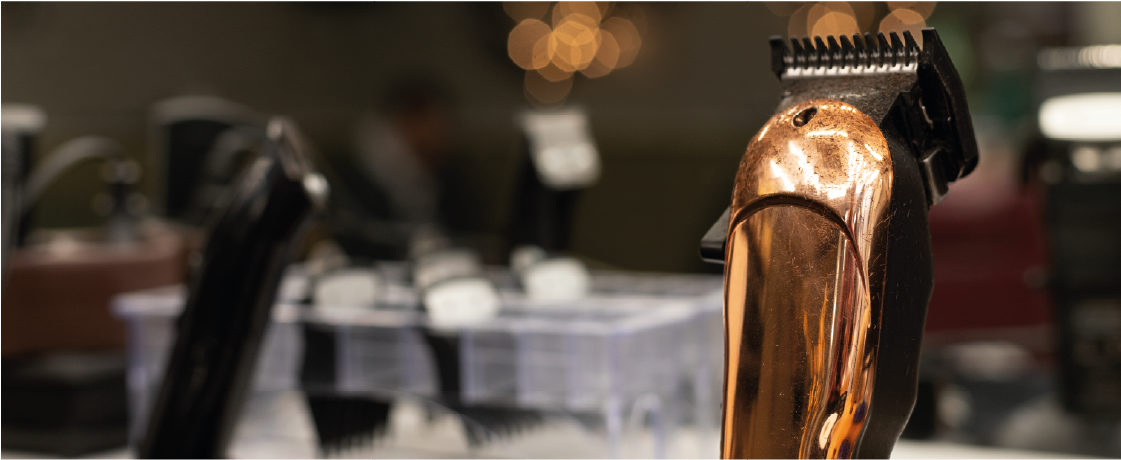
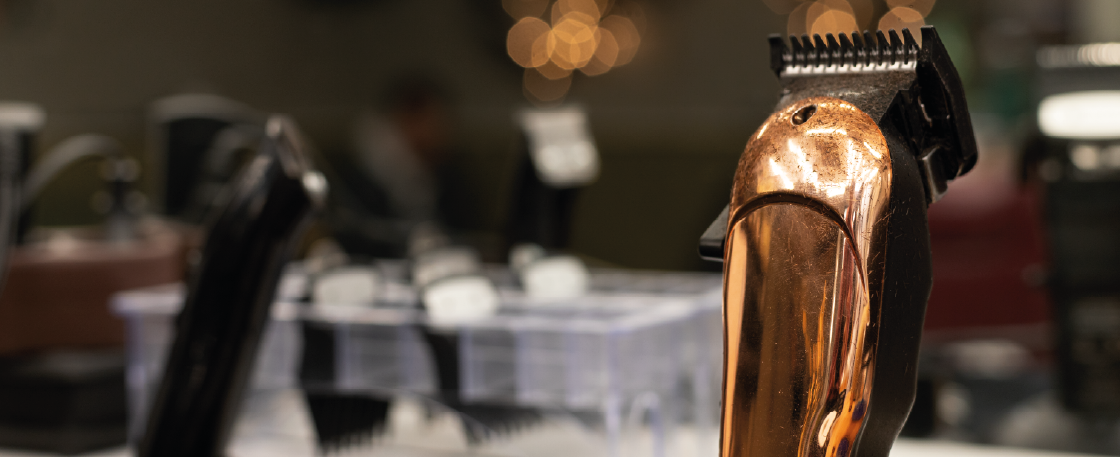
joebarber: Set description block

diff --git a/templates/assets/output.css b/templates/assets/output.css
@@ -219,6 +219,9 @@
   .my-6 {
     margin-block: calc(var(--spacing) * 6);
   }
+  .my-8 {
+    margin-block: calc(var(--spacing) * 8);
+  }
   .mt-0 {
     margin-top: 0;
   }
@@ -346,6 +349,9 @@
   .rounded-br-2xl {
     border-bottom-right-radius: var(--radius-2xl);
   }
+  .rounded-br-4xl {
+    border-bottom-right-radius: var(--radius-4xl);
+  }
   .rounded-br-full {
     border-bottom-right-radius: calc(infinity * 1px);
   }
@@ -421,6 +427,9 @@
   .p-4 {
     padding: calc(var(--spacing) * 4);
   }
+  .p-8 {
+    padding: calc(var(--spacing) * 8);
+  }
   .px-6 {
     padding-inline: calc(var(--spacing) * 6);
   }
@@ -433,8 +442,8 @@
   .py-4 {
     padding-block: calc(var(--spacing) * 4);
   }
-  .py-24 {
-    padding-block: calc(var(--spacing) * 24);
+  .py-20 {
+    padding-block: calc(var(--spacing) * 20);
   }
   .py-\[5\%\] {
     padding-block: 5%;
@@ -444,6 +453,9 @@
   }
   .pt-16 {
     padding-top: calc(var(--spacing) * 16);
+  }
+  .pb-6 {
+    padding-bottom: calc(var(--spacing) * 6);
   }
   .pb-8 {
     padding-bottom: calc(var(--spacing) * 8);
@@ -531,14 +543,24 @@
       margin-inline: calc(var(--spacing) * 4);
     }
   }
-  .lg\:-mr-\[25\%\] {
+  .lg\:mt-40 {
     @media (width >= 64rem) {
-      margin-right: calc(25% * -1);
+      margin-top: calc(var(--spacing) * 40);
+    }
+  }
+  .lg\:-mr-\[20\%\] {
+    @media (width >= 64rem) {
+      margin-right: calc(20% * -1);
     }
   }
   .lg\:mb-20 {
     @media (width >= 64rem) {
       margin-bottom: calc(var(--spacing) * 20);
+    }
+  }
+  .lg\:-ml-\[5\%\] {
+    @media (width >= 64rem) {
+      margin-left: calc(5% * -1);
     }
   }
   .lg\:ml-8 {
